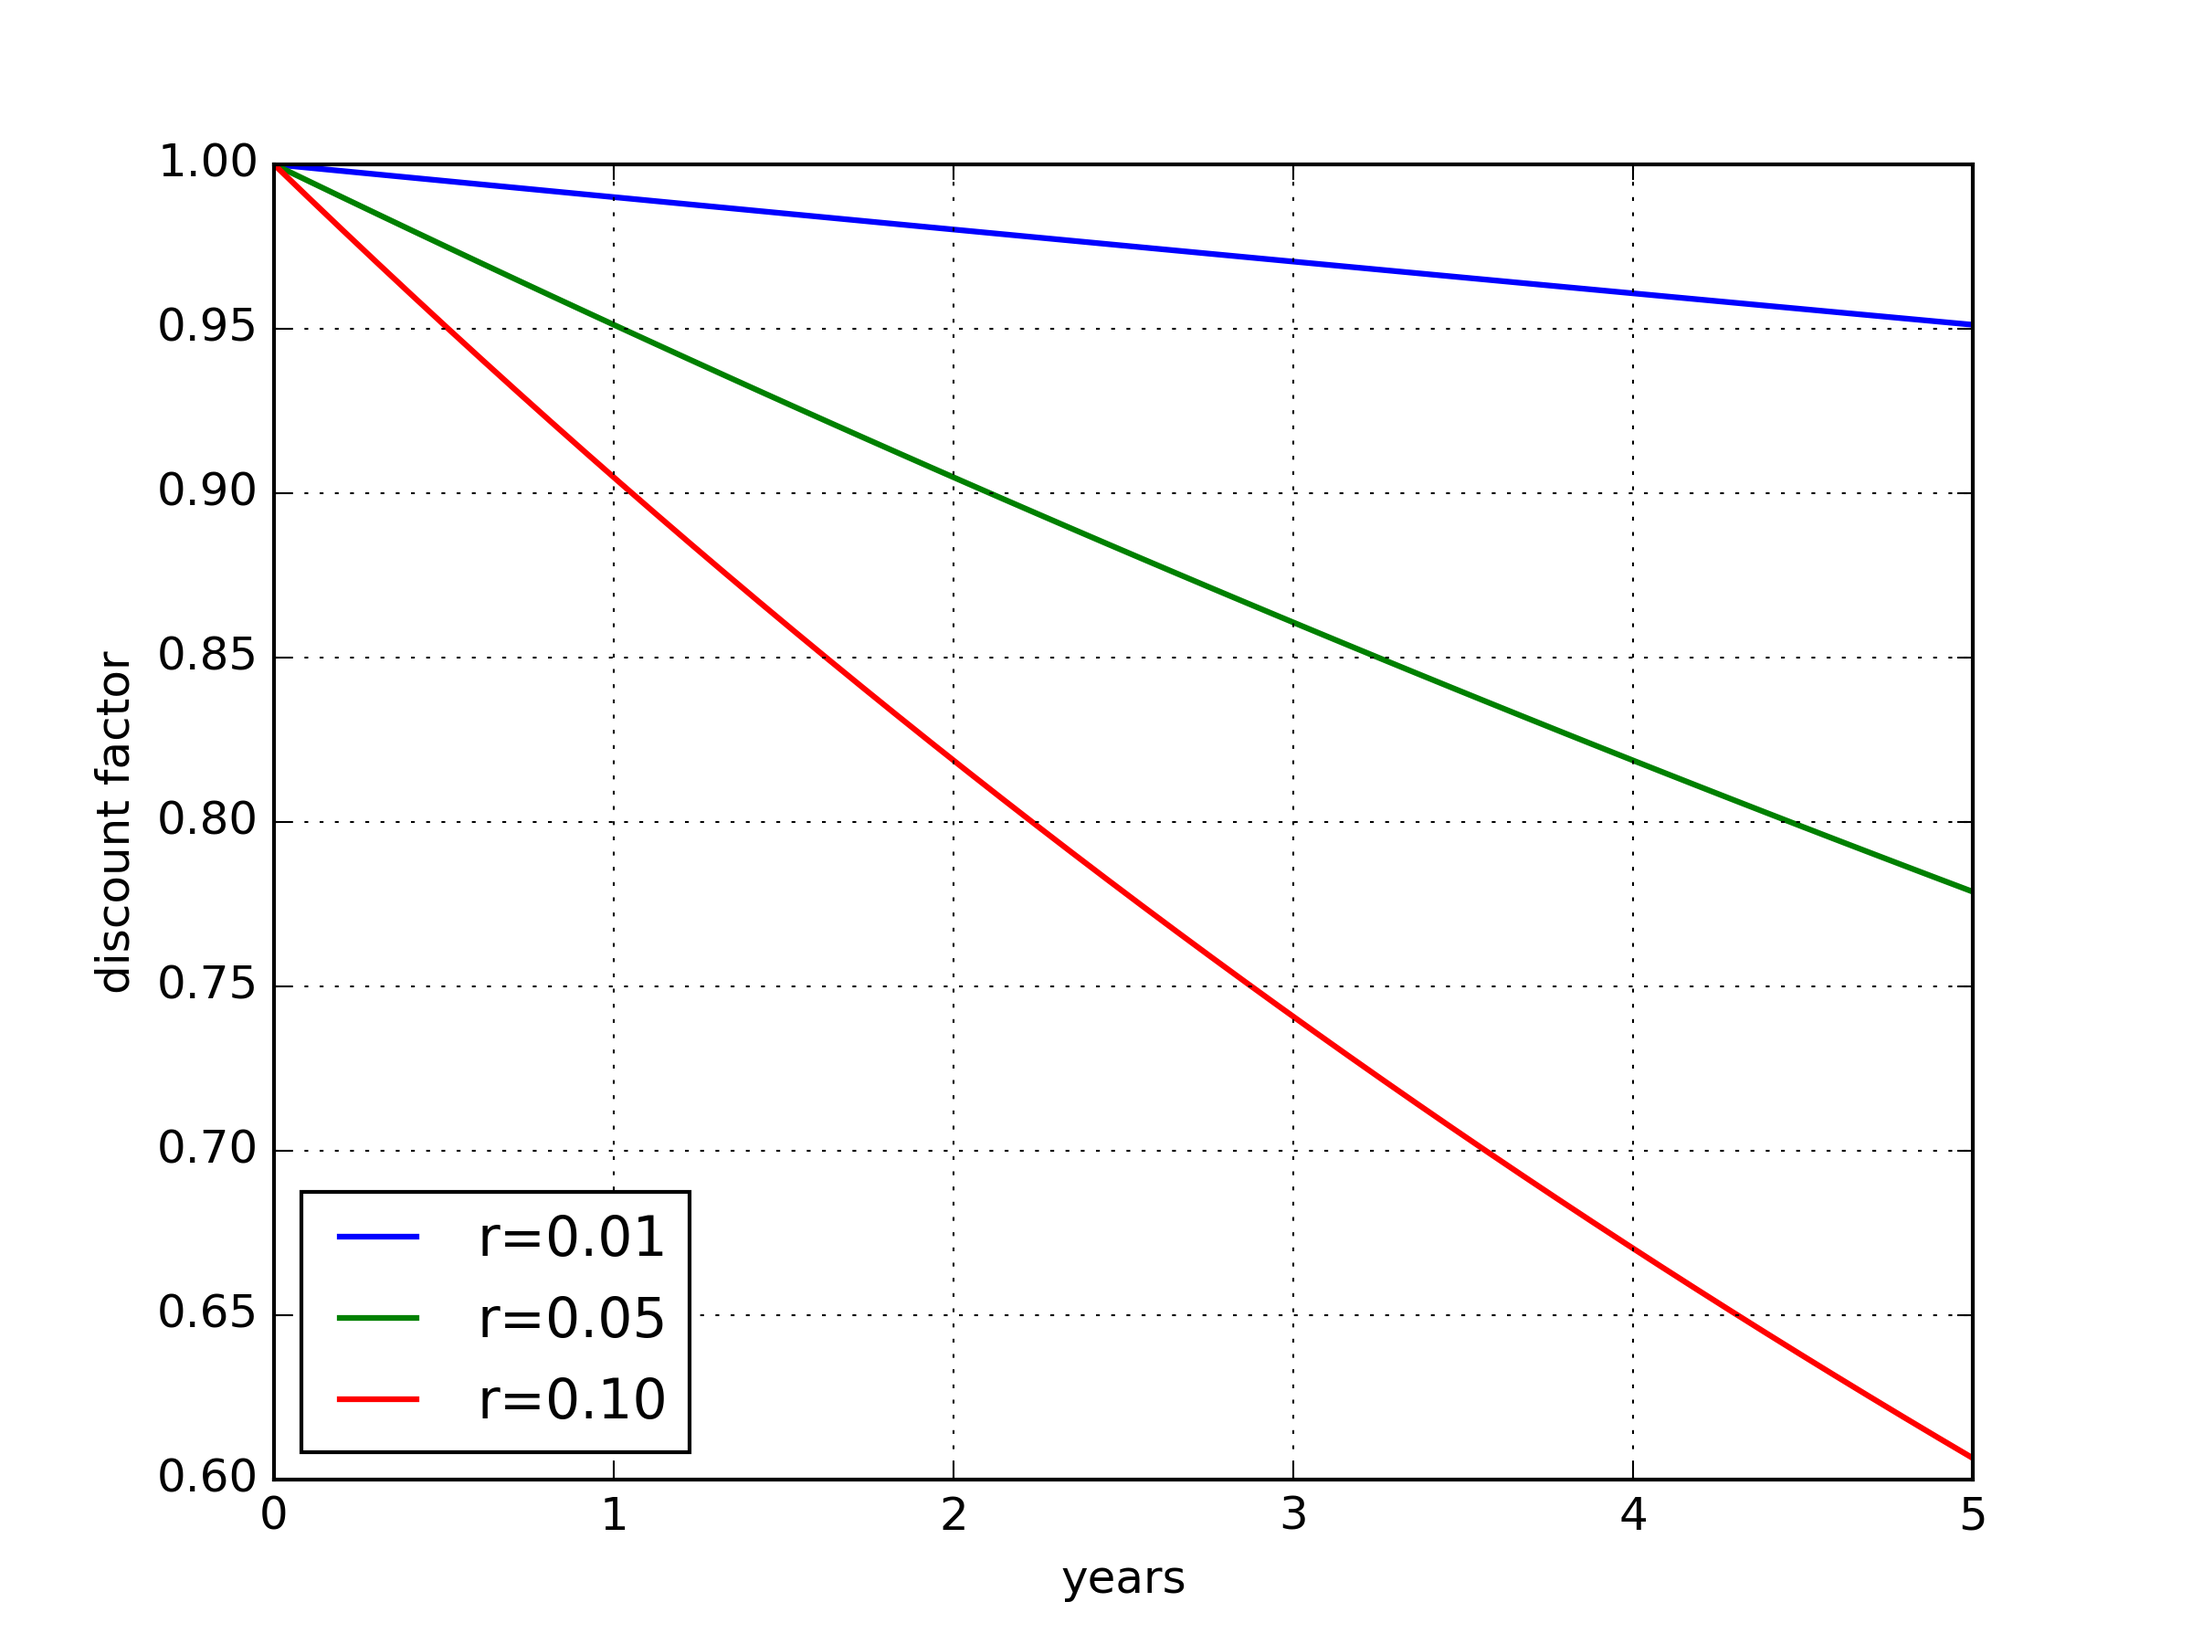
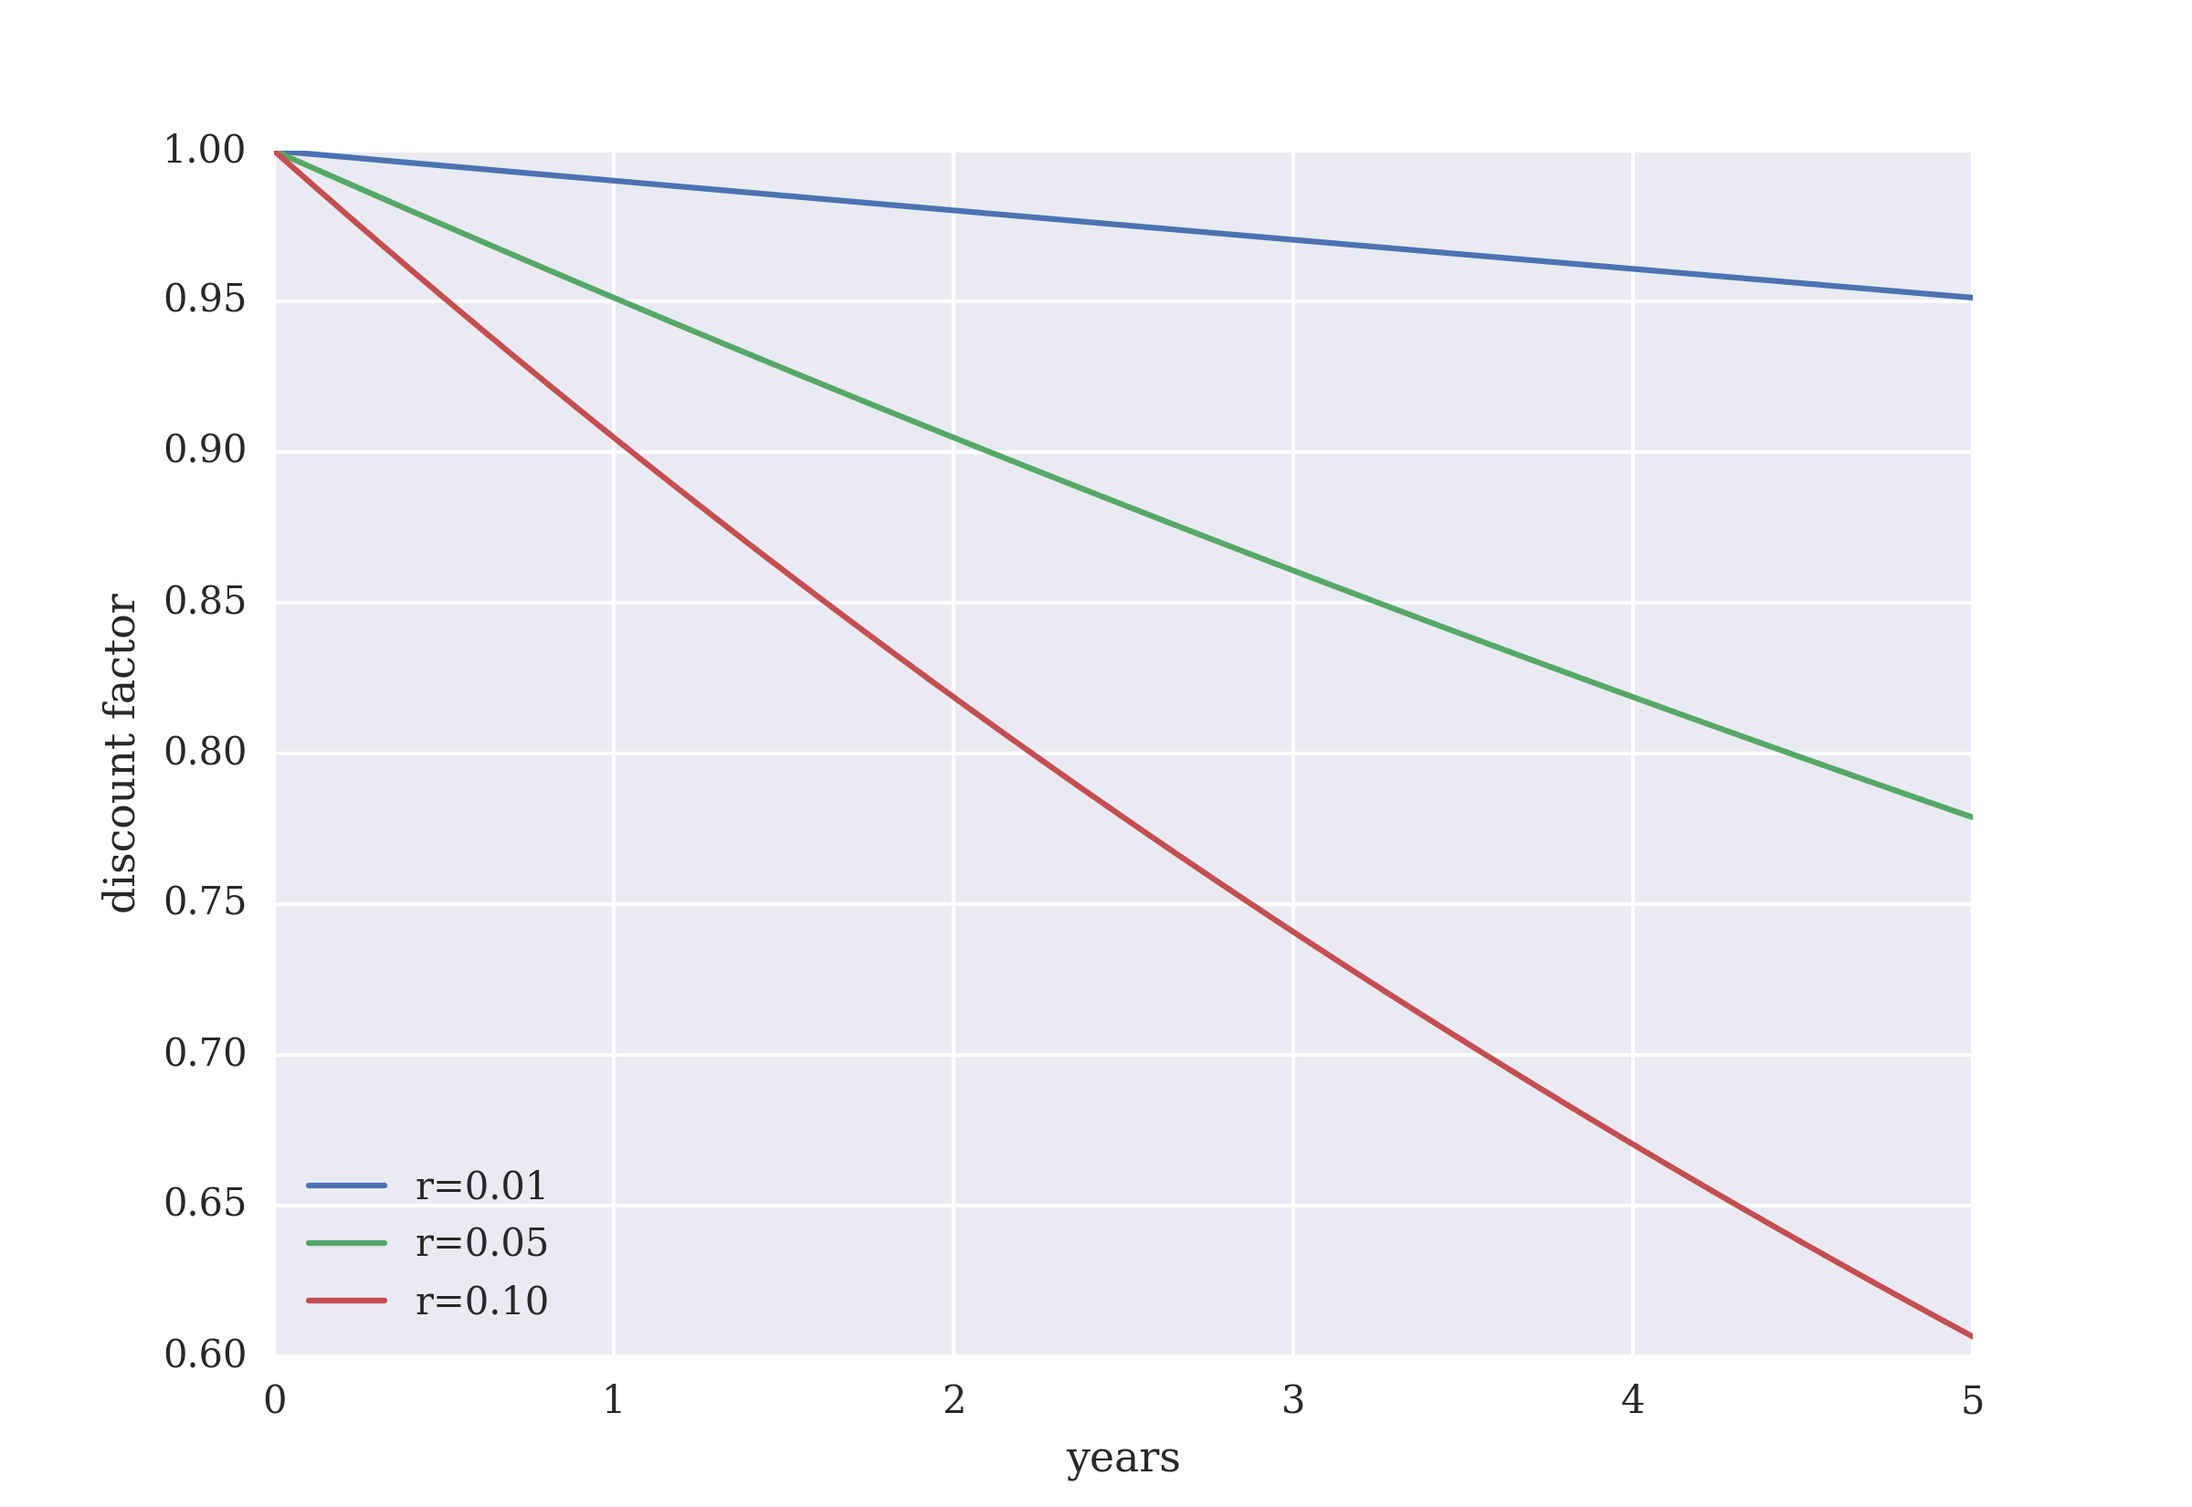
making progress

diff --git a/13ch_scrap.py b/13ch_scrap.py
@@ -8,7 +8,9 @@ mpl.use('Agg')
 import numpy as np
 import pandas as pd
 import matplotlib.pyplot as plt
-import traits.api as trapi
+import seaborn as sns; sns.set()
+import matplotlib as mpl
+mpl.rcParams['font.family'] = 'serif'
 
 PATH = '/home/ubuntu/workspace/python_for_finance/png/ch13/'
 
@@ -195,6 +197,7 @@ class cash_flow_series(object):
 
 class cfs_sensitivity(cash_flow_series):
     def npv_sensitivity(self, short_rates):
+        sr = short_rate('r', 0.05)
         npvs = []
         for rate in short_rates:
             sr.rate = rate
@@ -259,16 +262,15 @@ def short_rate_class():
     plt.savefig(PATH + 'cash_flow.png', dpi=300)
     plt.close()
 
-class short_rate_g(trapi.HasTraits):
-    name = trapi.Str
-    rate = trapi.Float
-    time_list = trapi.Array(dtype=np.float, shape=(5,))
-    def get_discount_factors(self):
-        return np.exp(-self.rate * self.time_list)
+# class short_rate_g(trapi.HasTraits):
+#     name = trapi.Str
+#     rate = trapi.Float
+#     time_list = trapi.Array(dtype=np.float, shape=(5,))
+#     def get_discount_factors(self):
+#         return np.exp(-self.rate * self.time_list)
 
 def short_rate_gui():
     sr = short_rate_g()
-    #remove sr.configure_traits()
     sr.name = 'sr_class'
     sr.rate = 0.05
     sr.time_list = [0.0, 0.5, 1.0, 1.5, 2.0]
@@ -279,5 +281,6 @@ def short_rate_gui():
 
 if __name__ == "__main__":
     # object_orientation()
-    # short_rate_class()
-    short_rate_gui()
+    short_rate_class()
+    # Not compatible for Python3
+    # short_rate_gui()

diff --git a/14ch_scrap.py b/14ch_scrap.py
@@ -1,0 +1,43 @@
+import pdb
+import seaborn as sns; sns.set()
+import matplotlib as mpl
+mpl.rcParams['font.family'] = 'serif'
+import http.client as clt
+import urllib.request
+
+
+def web_basics_http():
+    http = clt.HTTPConnection('hilpisch.com')
+    http.request('GET', '/index.htm')
+    resp = http.getresponse()
+    print(resp.status, resp.reason)
+    content = resp.read()
+    print(content[:100])
+    index = content.find(b' E ')
+    print(index)
+    print(content[index:index + 29])
+    http.close()
+
+def web_basics_urllib():
+    pdb.set_trace()
+    url = 'http://ichart.finance.yahoo.com/table.csv?g=d&ignore=.csv'
+    url += '&s=YHOO&a=01&b=1&c=2014&d=02&e=6&f=2014'
+    connect = urllib.request.urlopen(url)
+    data = connect.read()
+    print(data)
+    url = 'http://ichart.finance.yahoo.com/table.csv?g=d&ignore=.csv'
+    url += '&%s'  # for replacement with parameters
+    url += '&d=06&e=30&f=2014'
+    params = urllib.parse.urlencode({'s': 'MSFT', 'a': '05', 'b': 1, 'c': 2014})
+    print(params)
+    print(url % params)
+    connect = urllib.request.urlopen(url % params)
+    data = connect.read()
+    print(data)
+    print(urllib.request.urlretrieve(url % params, './data/msft.csv'))
+    csv = open('./data/msft.csv', 'r')
+    csv.readlines()[:5]
+
+if __name__ == '__main__':
+    # web_basics_http()
+    web_basics_urllib()

diff --git a/15ch_scrap.py b/15ch_scrap.py
@@ -1,0 +1,25 @@
+import seaborn as sns; sns.set()
+import matplotlib as mpl
+mpl.rcParams['font.family'] = 'serif'
+import numpy as np
+import pandas as pd
+import datetime as dt
+import sys
+sys.path.append('../python3/dxa')
+from dx_frame import *
+
+def risk_neutral_disc():
+    dates = [dt.datetime(2015, 1, 1), dt.datetime(2015, 7, 1), dt.datetime(2016, 1, 1)]
+    deltas = [0.0, 0.5, 1.0]
+    csr = constant_short_rate('csr', 0.05)
+    csr.get_discount_factors(dates)
+    print(array([[datetime.datetime(2015, 1, 1, 0, 0), 0.951229424500714],
+            [datetime.datetime(2015, 7, 1, 0, 0), 0.9755103387657228],
+            [datetime.datetime(2016, 1, 1, 0, 0), 1.0]], dtype=object))
+    deltas = get_year_deltas(dates)
+    print(deltas)
+    print(csr.get_discount_factors(deltas, dtobjects=False))
+
+
+if __name__ == '__main__':
+    risk_neutral_disc()

diff --git a/5ch_scrap.py b/5ch_scrap.py
@@ -271,6 +271,7 @@ def three_d():
     plt.close()
     
 if __name__ ==  "__main__":
-    matplot_finance()
+    # matplot_finance()
+    exponential()
     
 
